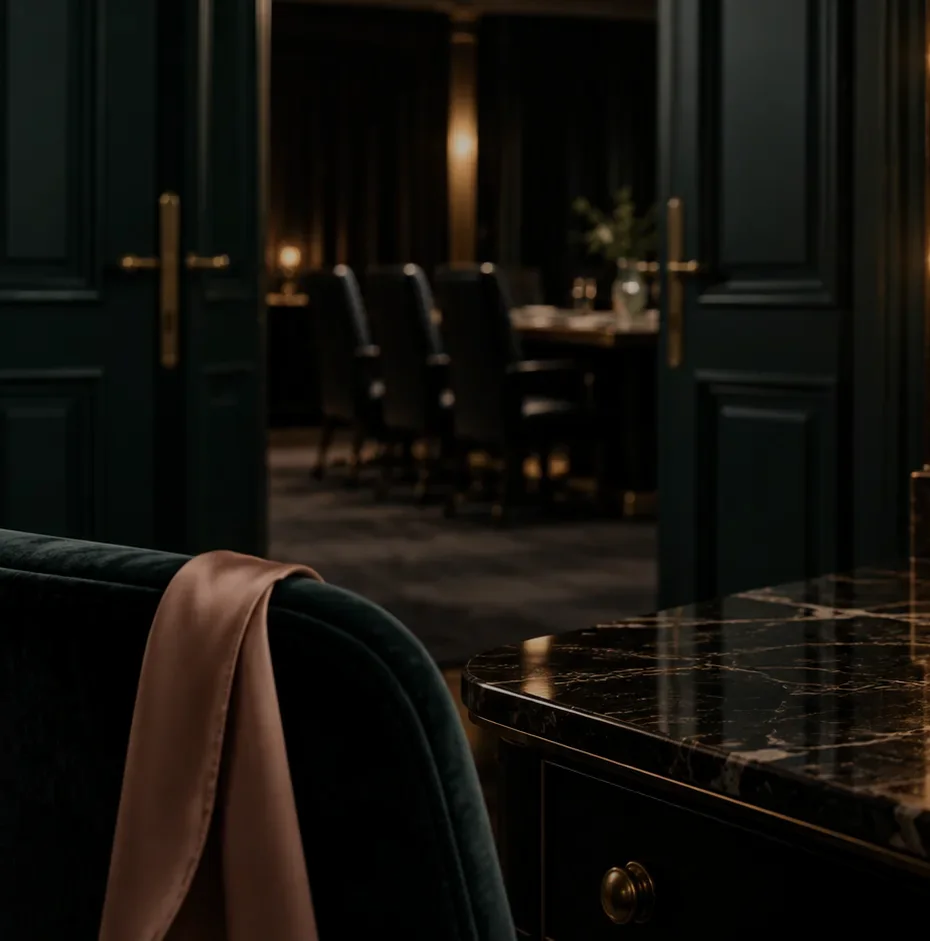
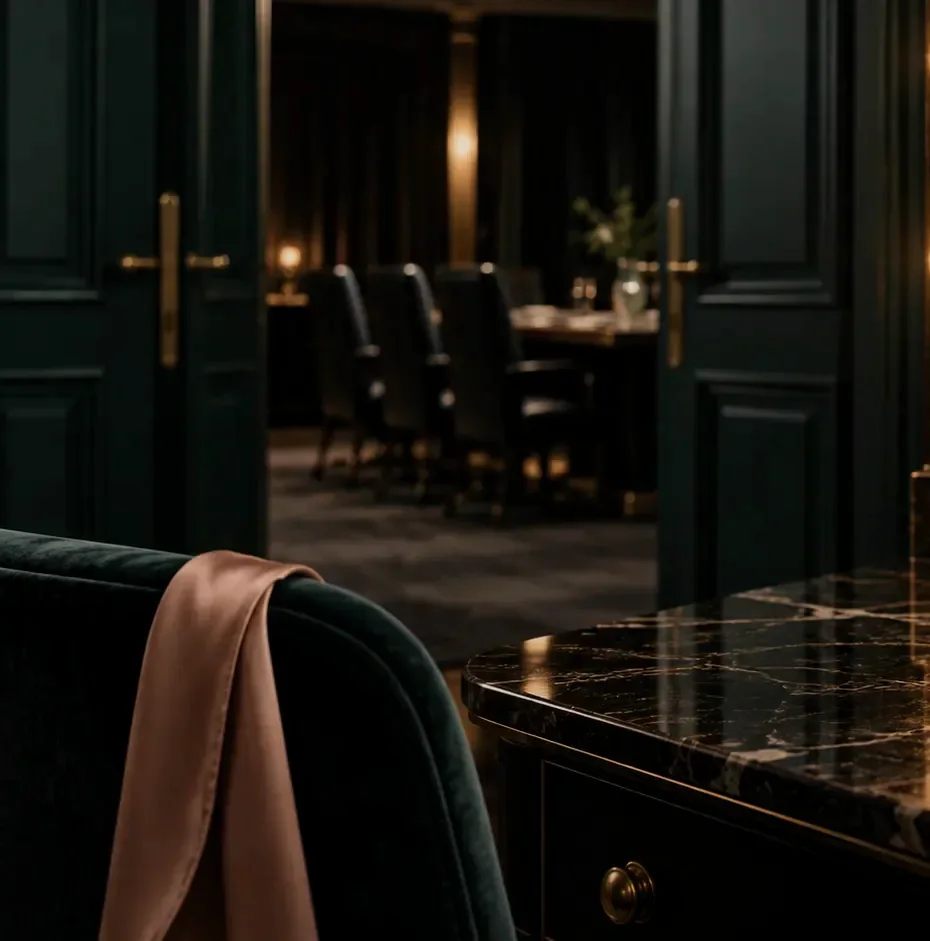
Lights up: the whole house one stop brighter
Shelby, 11 Sept: the site is a little too dark. Night #07130f -> #0e211b
and the hall #030806 -> #091712 (Antique Gold still 5.3:1 on it); every
editorial photograph lifted 20% by one global rule; every hero scrim
pulled back to 0.82x; the vanity room frame re-exported brighter. Still
after dark, but the candles are lit.

Claude-Session: https://claude.ai/code/session_01Ur261Wsau2RympRHJCG9oK

diff --git a/src/components/house/RoomHero.tsx b/src/components/house/RoomHero.tsx
@@ -77,6 +77,8 @@ export function RoomHero({
       id={id}
       className={`relative isolate flex ${height} flex-col justify-end overflow-hidden bg-night text-cream`}
     >
+      {/* Lights up, 11 Sept 2026: every scrim alpha in this file is 0.82× what
+          it was, so the rooms show more of themselves behind the copy. */}
       {/* The wide frame on desktop; the portrait crop on phones. Two
           elements, CSS-hidden, so each breakpoint gets a picture composed
           for it rather than the same crop squeezed. Only the desktop frame
@@ -113,7 +115,7 @@ export function RoomHero({
             className="pointer-events-none absolute inset-0 md:hidden"
             style={{
               background:
-                "linear-gradient(180deg, rgba(7,19,15,0.30) 0%, rgba(7,19,15,0) 42%, rgba(7,19,15,0.55) 74%, rgba(7,19,15,0.9) 100%)",
+                "linear-gradient(180deg, rgba(14,33,27,0.25) 0%, rgba(14,33,27,0) 42%, rgba(14,33,27,0.45) 74%, rgba(14,33,27,0.74) 100%)",
             }}
           />
           <div
@@ -121,7 +123,7 @@ export function RoomHero({
             className="pointer-events-none absolute inset-0 hidden md:block"
             style={{
               background:
-                "linear-gradient(90deg, rgba(7,19,15,0.62) 0%, rgba(7,19,15,0.34) 24%, rgba(7,19,15,0.08) 46%, rgba(7,19,15,0) 62%), linear-gradient(0deg, rgba(7,19,15,0.5) 0%, rgba(7,19,15,0) 20%)",
+                "linear-gradient(90deg, rgba(14,33,27,0.51) 0%, rgba(14,33,27,0.28) 24%, rgba(14,33,27,0.07) 46%, rgba(14,33,27,0) 62%), linear-gradient(0deg, rgba(14,33,27,0.41) 0%, rgba(14,33,27,0) 20%)",
             }}
           />
         </>
@@ -130,8 +132,8 @@ export function RoomHero({
           aria-hidden
           className={`pointer-events-none absolute inset-0 ${
             align === "center"
-              ? "bg-[linear-gradient(180deg,rgba(7,19,15,0.25)_0%,rgba(7,19,15,0)_30%,rgba(7,19,15,0.55)_62%,rgba(7,19,15,0.94)_100%)]"
-              : "bg-[linear-gradient(180deg,rgba(7,19,15,0.35)_0%,rgba(7,19,15,0.12)_32%,rgba(7,19,15,0.9)_76%,#07130f_100%)] md:bg-[linear-gradient(90deg,#07130f_0%,#07130f_20%,rgba(7,19,15,0.93)_34%,rgba(7,19,15,0.6)_48%,rgba(7,19,15,0.08)_66%,rgba(7,19,15,0)_80%)]"
+              ? "bg-[linear-gradient(180deg,rgba(14,33,27,0.2)_0%,rgba(14,33,27,0)_30%,rgba(14,33,27,0.45)_62%,rgba(14,33,27,0.77)_100%)]"
+              : "bg-[linear-gradient(180deg,rgba(14,33,27,0.29)_0%,rgba(14,33,27,0.1)_32%,rgba(14,33,27,0.74)_76%,#0e211b_100%)] md:bg-[linear-gradient(90deg,#0e211b_0%,#0e211b_20%,rgba(14,33,27,0.76)_34%,rgba(14,33,27,0.49)_48%,rgba(14,33,27,0.07)_66%,rgba(14,33,27,0)_80%)]"
           }`}
         />
       )}

diff --git a/src/app/globals.css b/src/app/globals.css
@@ -54,9 +54,17 @@
      WHAT THE DARK BUYS US. Antique Gold is 3.04:1 on Founder Green and fails
      as small text; on #07130f it is 6.01:1 and passes. Going darker retires
      the gold-contrast problem rather than deepening it. */
-  --color-night: #07130f; /* the room with the lights off */
-  --color-night-deep: #030806; /* the hall between rooms */
-  --color-marble: #100f0d;
+  /* LIGHTS UP — 11 Sept 2026, Shelby: "brighten the atmosphere on the
+     entire website, it's a little too dark." One stop up across the house:
+     night #07130f → #0e211b, the hall #030806 → #091712, the marble a shade
+     warmer. Still the room after dark — the candle is lit now, not the
+     chandelier. Antique Gold on the new night measures 5.32:1 (was 6.01),
+     still AA for small text; Champagne 9.3:1; Desert Rose 7.9:1. Every
+     hard-coded rgba(7,19,15) scrim in the components moved to rgba(14,33,27)
+     with it, and the photograph lift lives in `.editorial-lift` below. */
+  --color-night: #0e211b; /* the room with the lights on low */
+  --color-night-deep: #091712; /* the hall between rooms */
+  --color-marble: #171513;
   --color-marble-vein: #725a42;
   --color-rose-deep: #b87978; /* Desert Rose in shadow / as a light source */
 
@@ -815,11 +823,22 @@
       radial-gradient(100% 80% at 82% 100%, rgba(176, 138, 100, 0.10) 0%, transparent 64%);
     color: var(--color-cream);
   }
-  /* Photograph continuing behind a section — darkened to hold type. */
+  /* Photograph continuing behind a section — darkened to hold type.
+     Lights up, 11 Sept: 0.86/0.78/0.92 → 0.74/0.64/0.82. */
   .house-scene-dim {
     position: absolute;
     inset: 0;
-    background: linear-gradient(180deg, rgba(7, 19, 15, 0.86) 0%, rgba(7, 19, 15, 0.78) 50%, rgba(7, 19, 15, 0.92) 100%);
+    background: linear-gradient(180deg, rgba(14, 33, 27, 0.74) 0%, rgba(14, 33, 27, 0.64) 50%, rgba(14, 33, 27, 0.82) 100%);
+  }
+
+  /* LIGHTS UP — the photography. Every room and editorial frame on the site
+     was graded for the #07130f world and reads a stop under. Rather than
+     re-export forty files, the lift is applied once here to every editorial
+     photograph (Next serves them as /_next/image?url=%2Feditorial%2F…, so
+     the substring match holds). Product cutouts under /products/ are not
+     touched — they were never dimmed. */
+  img[src*="editorial"] {
+    filter: brightness(1.2) contrast(0.97);
   }
 
   /* Hero actions go full width on phones. */

diff --git a/src/components/house/ProductPlate.tsx b/src/components/house/ProductPlate.tsx
@@ -82,7 +82,7 @@ export function ProductPlate({ product }: { product: NextMoveProduct }) {
           over the lit part of the frame at any width. */}
       <div
         aria-hidden
-        className="pointer-events-none absolute inset-0 bg-[linear-gradient(180deg,rgba(7,19,15,0.55)_0%,rgba(7,19,15,0.25)_30%,rgba(7,19,15,0.95)_86%,#07130f_100%)] md:bg-[linear-gradient(90deg,#07130f_0%,rgba(7,19,15,0.95)_28%,rgba(7,19,15,0.6)_44%,rgba(7,19,15,0.05)_66%)]"
+        className="pointer-events-none absolute inset-0 bg-[linear-gradient(180deg,rgba(14,33,27,0.45)_0%,rgba(14,33,27,0.2)_30%,rgba(14,33,27,0.78)_86%,#0e211b_100%)] md:bg-[linear-gradient(90deg,#0e211b_0%,rgba(14,33,27,0.78)_28%,rgba(14,33,27,0.49)_44%,rgba(14,33,27,0.04)_66%)]"
       />
 
       <div className="shell relative flex w-full flex-1 items-end pb-16 pt-28 md:items-center md:py-24">
@@ -317,7 +317,7 @@ export function ProductPlate({ product }: { product: NextMoveProduct }) {
         />
         <div
           aria-hidden
-          className="absolute inset-0 bg-[linear-gradient(90deg,rgba(7,19,15,0.96)_0%,rgba(7,19,15,0.86)_34%,rgba(7,19,15,0.4)_62%,rgba(7,19,15,0.1)_100%)]"
+          className="absolute inset-0 bg-[linear-gradient(90deg,rgba(14,33,27,0.79)_0%,rgba(14,33,27,0.71)_34%,rgba(14,33,27,0.33)_62%,rgba(14,33,27,0.08)_100%)]"
         />
         <div className="shell relative py-24 md:py-32">
           <Reveal className="max-w-[30rem]">

diff --git a/src/app/products/hold-the-room/page.tsx b/src/app/products/hold-the-room/page.tsx
@@ -87,7 +87,7 @@ export default function HoldTheRoomPage() {
             over the lit part of the frame at any width. */}
         <div
           aria-hidden
-          className="absolute inset-0 bg-[linear-gradient(180deg,rgba(7,19,15,0.55)_0%,rgba(7,19,15,0.25)_30%,rgba(7,19,15,0.95)_86%,#07130f_100%)] md:bg-[linear-gradient(90deg,#07130f_0%,rgba(7,19,15,0.95)_28%,rgba(7,19,15,0.6)_44%,rgba(7,19,15,0.05)_66%)]"
+          className="absolute inset-0 bg-[linear-gradient(180deg,rgba(14,33,27,0.45)_0%,rgba(14,33,27,0.2)_30%,rgba(14,33,27,0.78)_86%,#0e211b_100%)] md:bg-[linear-gradient(90deg,#0e211b_0%,rgba(14,33,27,0.78)_28%,rgba(14,33,27,0.49)_44%,rgba(14,33,27,0.04)_66%)]"
         />
 
         <div className="shell relative flex w-full flex-1 items-end pb-16 pt-28 md:items-center md:py-24">
@@ -271,7 +271,7 @@ export default function HoldTheRoomPage() {
         />
         <div
           aria-hidden
-          className="absolute inset-0 bg-[linear-gradient(90deg,rgba(7,19,15,0.96)_0%,rgba(7,19,15,0.86)_34%,rgba(7,19,15,0.4)_62%,rgba(7,19,15,0.1)_100%)]"
+          className="absolute inset-0 bg-[linear-gradient(90deg,rgba(14,33,27,0.79)_0%,rgba(14,33,27,0.71)_34%,rgba(14,33,27,0.33)_62%,rgba(14,33,27,0.08)_100%)]"
         />
         <div className="shell relative py-24 md:py-32">
           <Reveal className="max-w-[30rem]">

diff --git a/src/components/house/vanity.module.css b/src/components/house/vanity.module.css
@@ -40,8 +40,8 @@
   inset: 0;
   pointer-events: none;
   background:
-    linear-gradient(90deg, rgba(7, 19, 15, 0.42), transparent 20% 80%, rgba(7, 19, 15, 0.36)),
-    linear-gradient(180deg, rgba(7, 19, 15, 0.28), transparent 28% 72%, rgba(7, 19, 15, 0.5));
+    linear-gradient(90deg, rgba(14, 33, 27, 0.32), transparent 20% 80%, rgba(14, 33, 27, 0.27)),
+    linear-gradient(180deg, rgba(14, 33, 27, 0.21), transparent 28% 72%, rgba(14, 33, 27, 0.38));
 }
 
 .words {
@@ -68,7 +68,7 @@
   letter-spacing: 0.26em;
   text-transform: uppercase;
   color: var(--color-champagne);
-  background: rgba(7, 19, 15, 0.25);
+  background: rgba(14, 33, 27, 0.19);
   backdrop-filter: blur(6px);
   transition: border-color 0.3s, background 0.3s;
 }

diff --git a/src/components/site/Header.tsx b/src/components/site/Header.tsx
@@ -88,7 +88,7 @@ export function Header() {
           {/* Colourway 03 — Founder Green over Desert Rose — is the board's
               light-background alternate. It cannot survive on a night ground,
               so the dark rooms take Champagne over Desert Rose instead: the
-              same two-tone structure, both halves legible on #07130f. */}
+              same two-tone structure, both halves legible on #0e211b. */}
           <span className="md:hidden text-champagne">
             <Wordmark
               height={130 / FOUNDER_ASPECT}

diff --git a/src/components/house/RoomTransition.tsx b/src/components/house/RoomTransition.tsx
@@ -162,7 +162,7 @@ export function EnterTheHouse({ className = "hairline text-cream" }: { className
           />
           <div
             aria-hidden
-            className="absolute inset-0 bg-[linear-gradient(90deg,rgba(7,19,15,0.92)_0%,rgba(7,19,15,0.7)_38%,rgba(7,19,15,0.15)_70%)]"
+            className="absolute inset-0 bg-[linear-gradient(90deg,rgba(14,33,27,0.75)_0%,rgba(14,33,27,0.57)_38%,rgba(14,33,27,0.12)_70%)]"
           />
           <span aria-hidden className="ambient-fire absolute inset-0" />
 

diff --git a/src/components/house/EmeraldDoorPortal.tsx b/src/components/house/EmeraldDoorPortal.tsx
@@ -110,7 +110,7 @@ export function EmeraldDoorPortal({
             come from the picture, so this only lifts it. */}
         <span
           aria-hidden
-          className="absolute inset-0 bg-[radial-gradient(60%_70%_at_50%_45%,rgba(216,167,160,0.3)_0%,rgba(216,167,160,0.08)_40%,rgba(7,19,15,0)_70%)]"
+          className="absolute inset-0 bg-[radial-gradient(60%_70%_at_50%_45%,rgba(216,167,160,0.3)_0%,rgba(216,167,160,0.08)_40%,rgba(14,33,27,0)_70%)]"
         />
       </span>
 

diff --git a/src/app/found-her/page.tsx b/src/app/found-her/page.tsx
@@ -151,7 +151,7 @@ export default function FoundHerPage() {
                       />
                       <span
                         aria-hidden
-                        className="absolute inset-0 bg-[linear-gradient(90deg,transparent_60%,rgba(7,19,15,0.85))]"
+                        className="absolute inset-0 bg-[linear-gradient(90deg,transparent_60%,rgba(14,33,27,0.7))]"
                       />
                     </span>
                   )}
